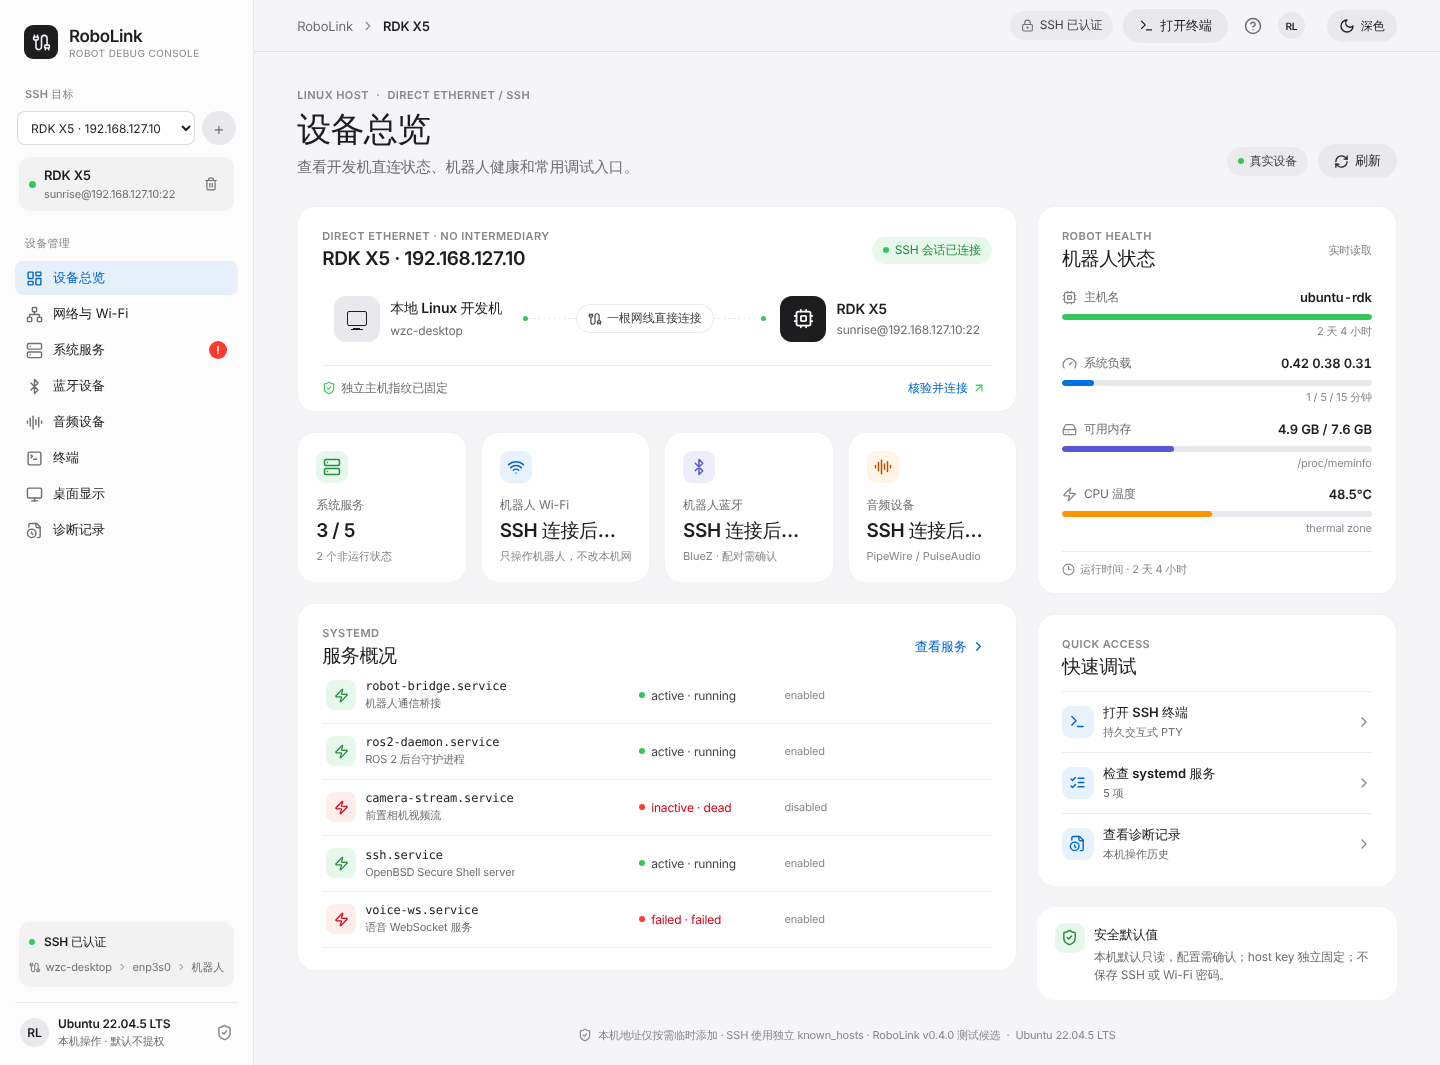
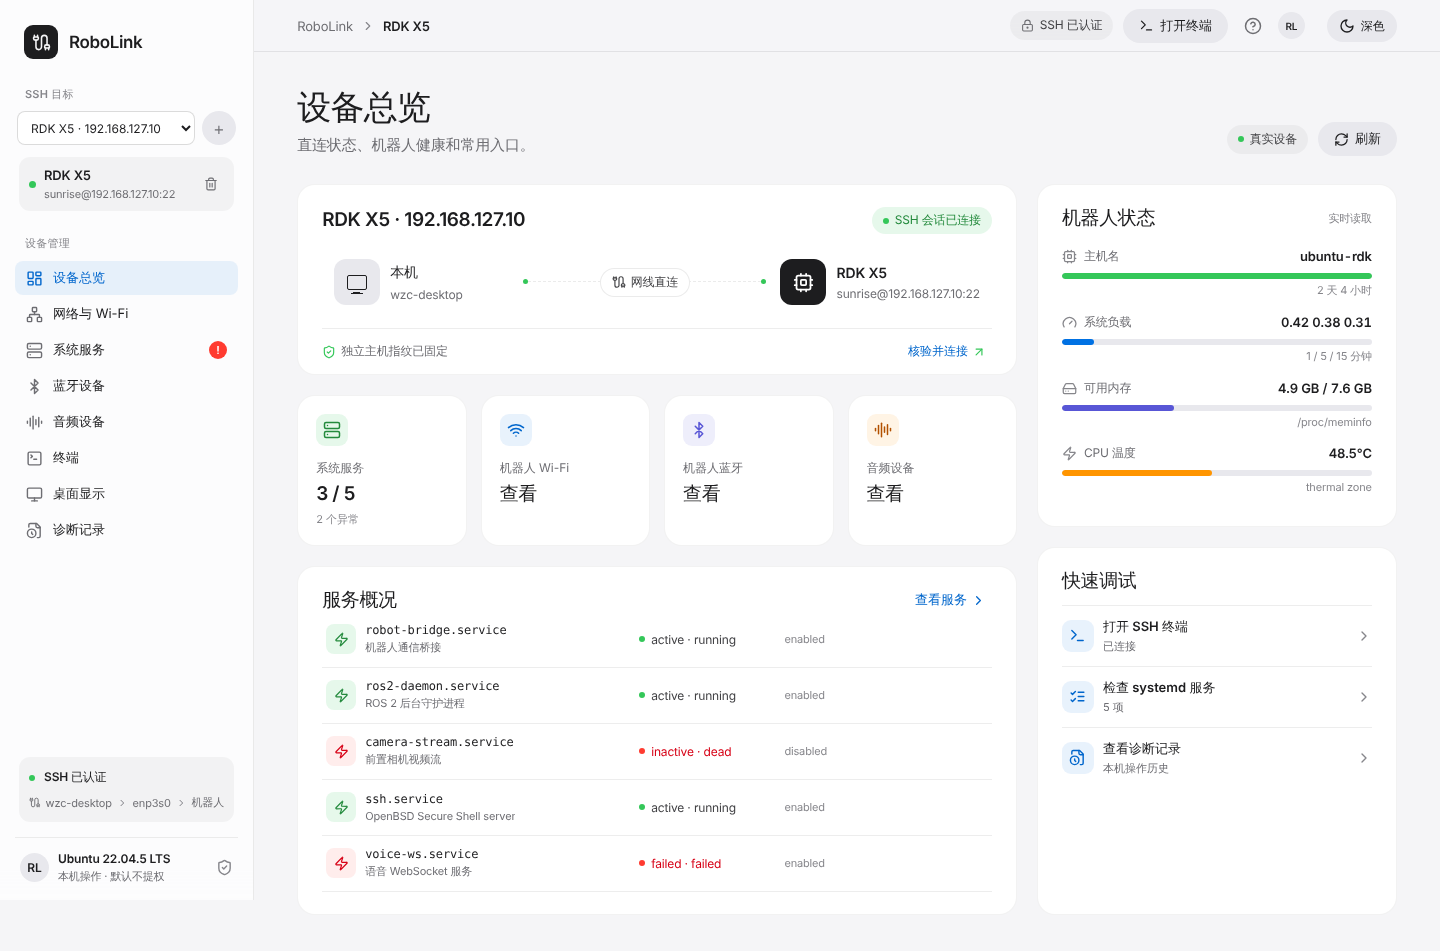
style: align overview columns, pin sidebar, trim copy
- Overview: both columns share one height; the last card in each stretches so
  top and bottom edges line up.
- Sidebar is sticky at one window height; only the content scrolls.
- Hide English kickers, brand caption, footer and safety notes; shorten page
  subtitles and overview copy.
- Fix: pages opened programmatically (connecting jumps to the terminal) are
  now mounted, so the terminal no longer shows blank until revisited.

Claude-Session: https://claude.ai/code/session_01UDXBskbdapJxXDBwCwEmJU

diff --git a/src/RealApp.tsx b/src/RealApp.tsx
@@ -51,14 +51,14 @@ const nav: { id: Page; label: string; icon: typeof LayoutDashboard }[] = [
   { id: 'logs', label: '诊断记录', icon: FileClock },
 ]
 const pageInfo: Record<Page, { title: string; subtitle: string }> = {
-  overview: { title: '设备总览', subtitle: '查看开发机直连状态、机器人健康和常用调试入口。' },
-  network: { title: '网络与 Wi-Fi', subtitle: '有线点对点连接属于开发机 ↔ 机器人；机器人 Wi-Fi 单独管理。' },
-  services: { title: '系统服务', subtitle: '读取机器人 systemd 服务状态；启停操作会再次确认。' },
-  bluetooth: { title: '蓝牙设备', subtitle: '查看机器人 BlueZ 适配器并扫描、配对和连接设备。' },
-  audio: { title: '音频设备', subtitle: '读取 PulseAudio/PipeWire 控件和 ALSA 硬件设备；ALSA 项仅用于识别。' },
-  terminal: { title: '终端', subtitle: '交互式 SSH PTY；主机、用户和危险命令提示始终可见。' },
-  desktop: { title: '桌面显示', subtitle: '把接了屏幕的开发板桌面搬到这里，用本机键盘鼠标操作。' },
-  logs: { title: '诊断记录', subtitle: '本地记录本次会话的应用操作；不会记录密码或终端输入。' },
+  overview: { title: '设备总览', subtitle: '直连状态、机器人健康和常用入口。' },
+  network: { title: '网络与 Wi-Fi', subtitle: '本机有线直连与机器人 Wi-Fi。' },
+  services: { title: '系统服务', subtitle: '机器人 systemd 服务，启停前会确认。' },
+  bluetooth: { title: '蓝牙设备', subtitle: '扫描、配对和连接机器人蓝牙设备。' },
+  audio: { title: '音频设备', subtitle: '机器人的输入输出设备与音量。' },
+  terminal: { title: '终端', subtitle: '连接到机器人的 SSH 终端。' },
+  desktop: { title: '桌面显示', subtitle: '在本机查看并操作开发板桌面。' },
+  logs: { title: '诊断记录', subtitle: '本次会话的操作记录，不含密码和终端输入。' },
 }
 const DANGEROUS = /(^|[^A-Za-z0-9_])(sudo|su|reboot|shutdown|poweroff|halt|rm|mkfs|dd|fdisk|parted|wipefs|systemctl\s+(stop|restart|disable|mask)|nmcli\s+(radio\s+wifi\s+off|connection\s+(down|delete))|ip\s+(addr|route|link)|iptables|nft|chmod\s+-R|chown\s+-R)(\s|$)/i
 const now = () => new Date().toLocaleTimeString('zh-CN', { hour12: false })
@@ -558,6 +558,8 @@ export default function RealApp() {
   }
   const visibleServices = services.filter(s => `${s.name} ${s.description}`.toLowerCase().includes(serviceQuery.toLowerCase()))
   const wiredInterfaces = hostInfo?.interfaces.filter(i => i.kind === '有线以太网') ?? []
+  // Pages opened programmatically (e.g. connecting jumps to the terminal) must also be mounted, or they render blank.
+  useEffect(() => { setVisitedPages(pages => pages.has(page) ? pages : new Set(pages).add(page)) }, [page])
   const navPage = (id: Page) => { setVisitedPages(pages => pages.has(id) ? pages : new Set(pages).add(id)); setPage(id); setMobileNav(false); setError('') }
 
   return <div className="app-shell">
@@ -609,15 +611,15 @@ function OverviewPage({ hostInfo, target, trusted, connected, remote, services, 
   return <div className="dashboard-grid real-dashboard">
     <section className="main-column">
       <section className="panel connection-card real-connection"><div className="panel-heading"><div><div className="section-kicker">DIRECT ETHERNET · NO INTERMEDIARY</div><h2>{target ? `${target.name} · ${target.host}` : '添加机器人 SSH 目标'}</h2></div><span className={`connected-pill ${connected ? '' : 'not-connected'}`}><span/>{connected ? 'SSH 会话已连接' : trusted ? '指纹已固定' : '未连接'}</span></div>
-        <div className="connection-map"><div className="endpoint"><div className="endpoint-icon host"><MonitorGlyph/></div><div><strong>本地 Linux 开发机</strong><small>{hostInfo?.hostname ?? '读取中…'}</small></div></div><div className="link-track"><div className="link-line"/><div className="link-chip"><Cable size={14}/>一根网线直接连接</div></div><div className="endpoint"><div className="endpoint-icon robot"><Cpu size={21}/></div><div><strong>{target?.name ?? 'Linux 机器人'}</strong><small>{target ? `${target.username}@${target.host}:${target.port}` : '未配置目标'}</small></div></div></div>
+        <div className="connection-map"><div className="endpoint"><div className="endpoint-icon host"><MonitorGlyph/></div><div><strong>本机</strong><small>{hostInfo?.hostname ?? '读取中…'}</small></div></div><div className="link-track"><div className="link-line"/><div className="link-chip"><Cable size={14}/>网线直连</div></div><div className="endpoint"><div className="endpoint-icon robot"><Cpu size={21}/></div><div><strong>{target?.name ?? 'Linux 机器人'}</strong><small>{target ? `${target.username}@${target.host}:${target.port}` : '未配置目标'}</small></div></div></div>
         <div className="connection-footer"><span><ShieldCheck size={14}/>{trusted ? '独立主机指纹已固定' : '连接前需要核验 SSH 指纹'}</span><button onClick={target ? onConnect : onAdd}>{target ? '核验并连接' : '添加 SSH 目标'} <ArrowUpRight size={14}/></button></div></section>
-      {!target && <div className="first-run-card"><div className="first-run-icon"><Cable size={22}/></div><div><strong>开始调试你的无头机器人</strong><p>网线从开发机直接连接机器人。先选择目标 IP/主机名和 SSH 用户；本机网络默认只读，临时地址或直连 DHCP 都需在 GUI 明确确认。</p></div><button className="button button-primary" onClick={onAdd}>添加设备</button></div>}
-      {target && !trusted && <div className="network-warning"><div className="warning-icon"><LockKeyhole size={17}/></div><div><strong>尚未验证机器人的 SSH 身份</strong><p>首次连接前需核对 SSH 指纹；在机器人本地可信控制台运行 <code>ssh-keygen -lf /etc/ssh/ssh_host_ed25519_key.pub</code> 进行比对。</p></div><button className="button button-subtle" onClick={onConnect}>查看指纹</button></div>}
-      <div className="metric-grid real-metrics"><Metric label="系统服务" value={trusted ? `${services.filter(s => s.active === 'active').length} / ${services.length}` : '未连接'} detail={trusted ? `${failed.length} 个非运行状态` : '连接并验证后读取'} tone="green" icon={Server} onClick={() => onPage('services')}/><Metric label="机器人 Wi-Fi" value="SSH 连接后读取" detail="只操作机器人，不改本机网络" tone="blue" icon={Wifi} onClick={() => onPage('network')}/><Metric label="机器人蓝牙" value="SSH 连接后读取" detail="BlueZ · 配对需确认" tone="violet" icon={Bluetooth} onClick={() => onPage('bluetooth')}/><Metric label="音频设备" value="SSH 连接后读取" detail="PipeWire / PulseAudio" tone="amber" icon={AudioLines} onClick={() => onPage('audio')}/></div>
-      <section className="panel service-panel"><div className="panel-heading"><div><div className="section-kicker">SYSTEMD</div><h2>服务概况</h2></div><button className="text-button" onClick={() => onPage('services')}>查看服务 <ChevronRight size={15}/></button></div>{!trusted ? <EmptyState text="连接并验证 SSH 指纹后显示真实服务状态。"/> : services.length ? services.slice(0,5).map(s => <div className="service-row real-service-row" key={s.name}><div className="service-name-cell"><span className={`service-icon ${s.active === 'active' ? 'is-running' : 'is-stopped'}`}><Zap size={15}/></span><span><strong>{s.name}</strong><small>{s.description}</small></span></div><span className={`state-label ${s.active === 'active' ? 'state-ok' : 'state-down'}`}><i/>{s.active} · {s.subState}</span><span className="uptime-text">{s.enabled}</span></div>) : <EmptyState text="未读到 systemd 服务，或当前用户无权读取。"/>}</section>
+      {!target && <div className="first-run-card"><div className="first-run-icon"><Cable size={22}/></div><div><strong>添加第一台机器人</strong><p>填写机器人的 IP 和 SSH 用户即可开始。</p></div><button className="button button-primary" onClick={onAdd}>添加设备</button></div>}
+      {target && !trusted && <div className="network-warning"><div className="warning-icon"><LockKeyhole size={17}/></div><div><strong>尚未验证 SSH 指纹</strong><p>可在机器人上运行 <code>ssh-keygen -lf /etc/ssh/ssh_host_ed25519_key.pub</code> 比对。</p></div><button className="button button-subtle" onClick={onConnect}>查看指纹</button></div>}
+      <div className="metric-grid real-metrics"><Metric label="系统服务" value={trusted ? `${services.filter(s => s.active === 'active').length} / ${services.length}` : '未连接'} detail={trusted && failed.length ? `${failed.length} 个异常` : ''} tone="green" icon={Server} onClick={() => onPage('services')}/><Metric label="机器人 Wi-Fi" value="查看" detail="" tone="blue" icon={Wifi} onClick={() => onPage('network')}/><Metric label="机器人蓝牙" value="查看" detail="" tone="violet" icon={Bluetooth} onClick={() => onPage('bluetooth')}/><Metric label="音频设备" value="查看" detail="" tone="amber" icon={AudioLines} onClick={() => onPage('audio')}/></div>
+      <section className="panel service-panel"><div className="panel-heading"><div><div className="section-kicker">SYSTEMD</div><h2>服务概况</h2></div><button className="text-button" onClick={() => onPage('services')}>查看服务 <ChevronRight size={15}/></button></div>{!trusted ? <EmptyState text="连接后显示服务状态。"/> : services.length ? services.slice(0,5).map(s => <div className="service-row real-service-row" key={s.name}><div className="service-name-cell"><span className={`service-icon ${s.active === 'active' ? 'is-running' : 'is-stopped'}`}><Zap size={15}/></span><span><strong>{s.name}</strong><small>{s.description}</small></span></div><span className={`state-label ${s.active === 'active' ? 'state-ok' : 'state-down'}`}><i/>{s.active} · {s.subState}</span><span className="uptime-text">{s.enabled}</span></div>) : <EmptyState text="未读到 systemd 服务，或当前用户无权读取。"/>}</section>
     </section>
-    <aside className="right-column"><section className="panel health-panel"><div className="panel-heading"><div><div className="section-kicker">ROBOT HEALTH</div><h2>机器人状态</h2></div><span className="small-muted">{remote ? '实时读取' : '连接后读取'}</span></div>{remote ? <div className="remote-health"><HealthRow icon={Cpu} label="主机名" value={remote.hostname} sub={remote.uptime} percent={100} color="green"/><HealthRow icon={Gauge} label="系统负载" value={remote.load} sub="1 / 5 / 15 分钟" percent={Math.min(100, parseFloat(remote.load) * 25 || 0)} color="blue"/><HealthRow icon={HardDrive} label="可用内存" value={`${formatMemory(remote.memoryAvailableKb)} / ${formatMemory(remote.memoryTotalKb)}`} sub="/proc/meminfo" percent={remote.memoryTotalKb && remote.memoryAvailableKb ? 100 - remote.memoryAvailableKb / remote.memoryTotalKb * 100 : 0} color="violet"/>{remote.temperatureC != null && <HealthRow icon={Zap} label="CPU 温度" value={`${remote.temperatureC.toFixed(1)}°C`} sub="thermal zone" percent={Math.min(100,remote.temperatureC)} color="amber"/>}</div> : <EmptyState text="尚无机器人遥测。连接并授权后读取主机名、负载和内存。"/>}<div className="health-time"><Clock3 size={13}/>{remote ? `运行时间 · ${remote.uptime}` : '未创建远端会话'}</div></section>
-      <section className="panel quick-panel"><div className="panel-heading"><div><div className="section-kicker">QUICK ACCESS</div><h2>快速调试</h2></div></div><QuickAction icon={Terminal} title="打开 SSH 终端" detail={connected ? '持久交互式 PTY' : '先连接并核验主机'} onClick={() => onPage('terminal')}/><QuickAction icon={ListChecks} title="检查 systemd 服务" detail={trusted ? `${services.length} 项` : '连接后读取'} onClick={() => onPage('services')}/><QuickAction icon={FileClock} title="查看诊断记录" detail="本机操作历史" onClick={() => onPage('logs')}/></section>
+    <aside className="right-column"><section className="panel health-panel"><div className="panel-heading"><div><div className="section-kicker">ROBOT HEALTH</div><h2>机器人状态</h2></div><span className="small-muted">{remote ? '实时读取' : '连接后读取'}</span></div>{remote ? <div className="remote-health"><HealthRow icon={Cpu} label="主机名" value={remote.hostname} sub={remote.uptime} percent={100} color="green"/><HealthRow icon={Gauge} label="系统负载" value={remote.load} sub="1 / 5 / 15 分钟" percent={Math.min(100, parseFloat(remote.load) * 25 || 0)} color="blue"/><HealthRow icon={HardDrive} label="可用内存" value={`${formatMemory(remote.memoryAvailableKb)} / ${formatMemory(remote.memoryTotalKb)}`} sub="/proc/meminfo" percent={remote.memoryTotalKb && remote.memoryAvailableKb ? 100 - remote.memoryAvailableKb / remote.memoryTotalKb * 100 : 0} color="violet"/>{remote.temperatureC != null && <HealthRow icon={Zap} label="CPU 温度" value={`${remote.temperatureC.toFixed(1)}°C`} sub="thermal zone" percent={Math.min(100,remote.temperatureC)} color="amber"/>}</div> : <EmptyState text="连接后显示主机名、负载和内存。"/>}<div className="health-time"><Clock3 size={13}/>{remote ? `运行时间 · ${remote.uptime}` : '未创建远端会话'}</div></section>
+      <section className="panel quick-panel"><div className="panel-heading"><div><div className="section-kicker">QUICK ACCESS</div><h2>快速调试</h2></div></div><QuickAction icon={Terminal} title="打开 SSH 终端" detail={connected ? '已连接' : '需先连接'} onClick={() => onPage('terminal')}/><QuickAction icon={ListChecks} title="检查 systemd 服务" detail={trusted ? `${services.length} 项` : '连接后读取'} onClick={() => onPage('services')}/><QuickAction icon={FileClock} title="查看诊断记录" detail="本机操作历史" onClick={() => onPage('logs')}/></section>
       <section className="safety-note"><div className="safety-icon"><ShieldCheck size={17}/></div><div><strong>安全默认值</strong><p>本机默认只读，配置需确认；host key 独立固定；不保存 SSH 或 Wi-Fi 密码。</p></div></section>
     </aside>
   </div>

diff --git a/src/apple-theme.css b/src/apple-theme.css
@@ -806,7 +806,40 @@ html[data-theme] .toast svg { color: var(--a-green); }
 
 html[data-theme] .mobile-scrim { background: var(--a-overlay); }
 
+/* ---------- Layout & simplification (round 2) ---------- */
+/* Sidebar stays put at one window height; only the right side scrolls. */
+@media (min-width: 681px) {
+  html[data-theme] .sidebar { position: sticky; top: 0; height: 100vh; min-height: 0; overflow-y: auto; }
+}
+/* Overview: both columns share one height and their last cards stretch, so top and bottom edges line up. */
+html[data-theme] .dashboard-grid { align-items: stretch; }
+html[data-theme] .main-column > .service-panel,
+html[data-theme] .right-column > .quick-panel { flex: 1; }
+html[data-theme] .metric-grid { align-items: stretch; }
+html[data-theme] .metric-card { display: flex; flex-direction: column; align-items: flex-start; }
+html[data-theme] .metric-detail { min-height: 15px; }
+html[data-theme] .network-warning { align-items: center; }
+html[data-theme] .network-warning > div:nth-child(2) { flex: 1; min-width: 0; }
+html[data-theme] .network-warning code { font-family: var(--a-mono); font-size: 11px; }
+/* Fewer labels: English kickers, captions and repeated notes are hidden; headings carry the meaning. */
+html[data-theme] .eyebrow,
+html[data-theme] .section-kicker,
+html[data-theme] .brand-caption,
+html[data-theme] .link-speed,
+html[data-theme] .health-time,
+html[data-theme] .safety-note,
+html[data-theme] .footer-note { display: none; }
+html[data-theme] .page-heading h1 { margin-top: 0; }
+html[data-theme] .panel-heading h2,
+html[data-theme] .audio-title h2,
+html[data-theme] .detail-panel h2,
+html[data-theme] .modal-title h2 { margin-top: 0; }
+html[data-theme] .content-wrap { padding-bottom: 36px; }
+
 /* ---------- Responsive mirrors (the base rules above outrank the original media rules) ---------- */
+@media (max-width: 1180px) {
+  html[data-theme] .metric-card { display: grid; align-items: center; }
+}
 @media (max-width: 680px) {
   html[data-theme] .topbar { height: 52px; padding: 0 15px; padding-right: 64px; }
   html[data-theme] .theme-toggle { right: 12px; top: 10px; width: 32px; padding: 0; justify-content: center; }
